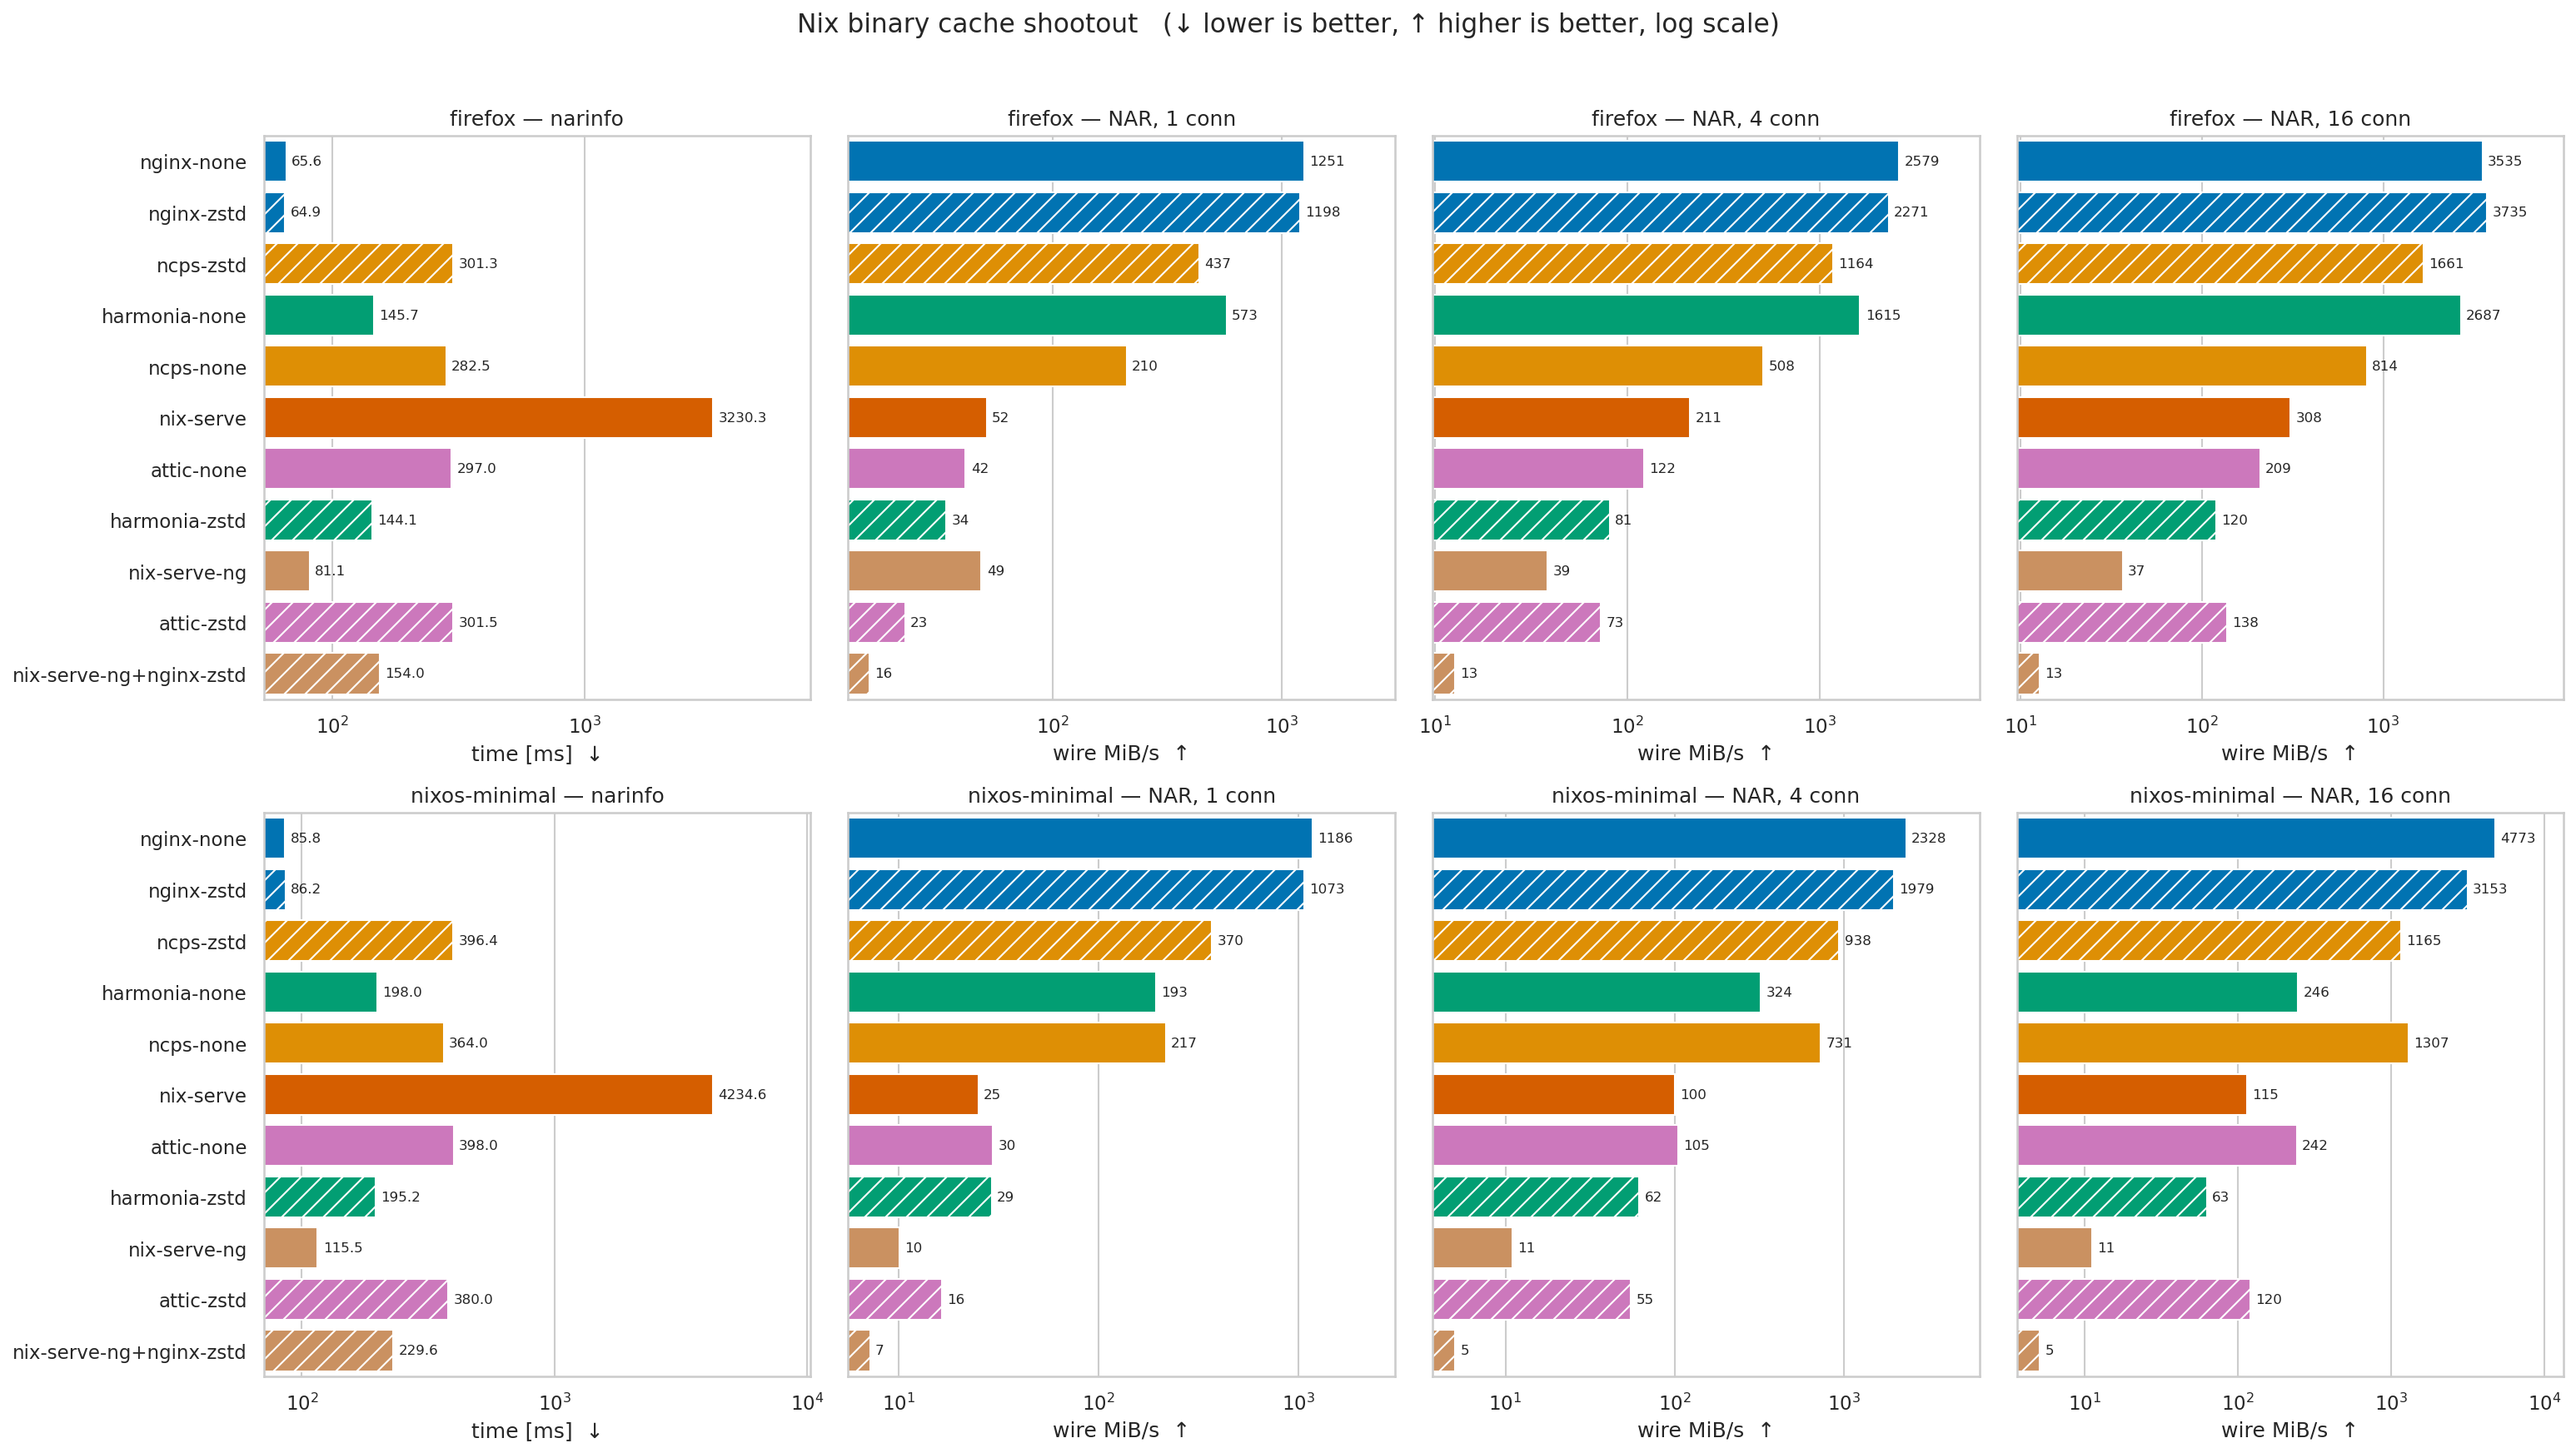
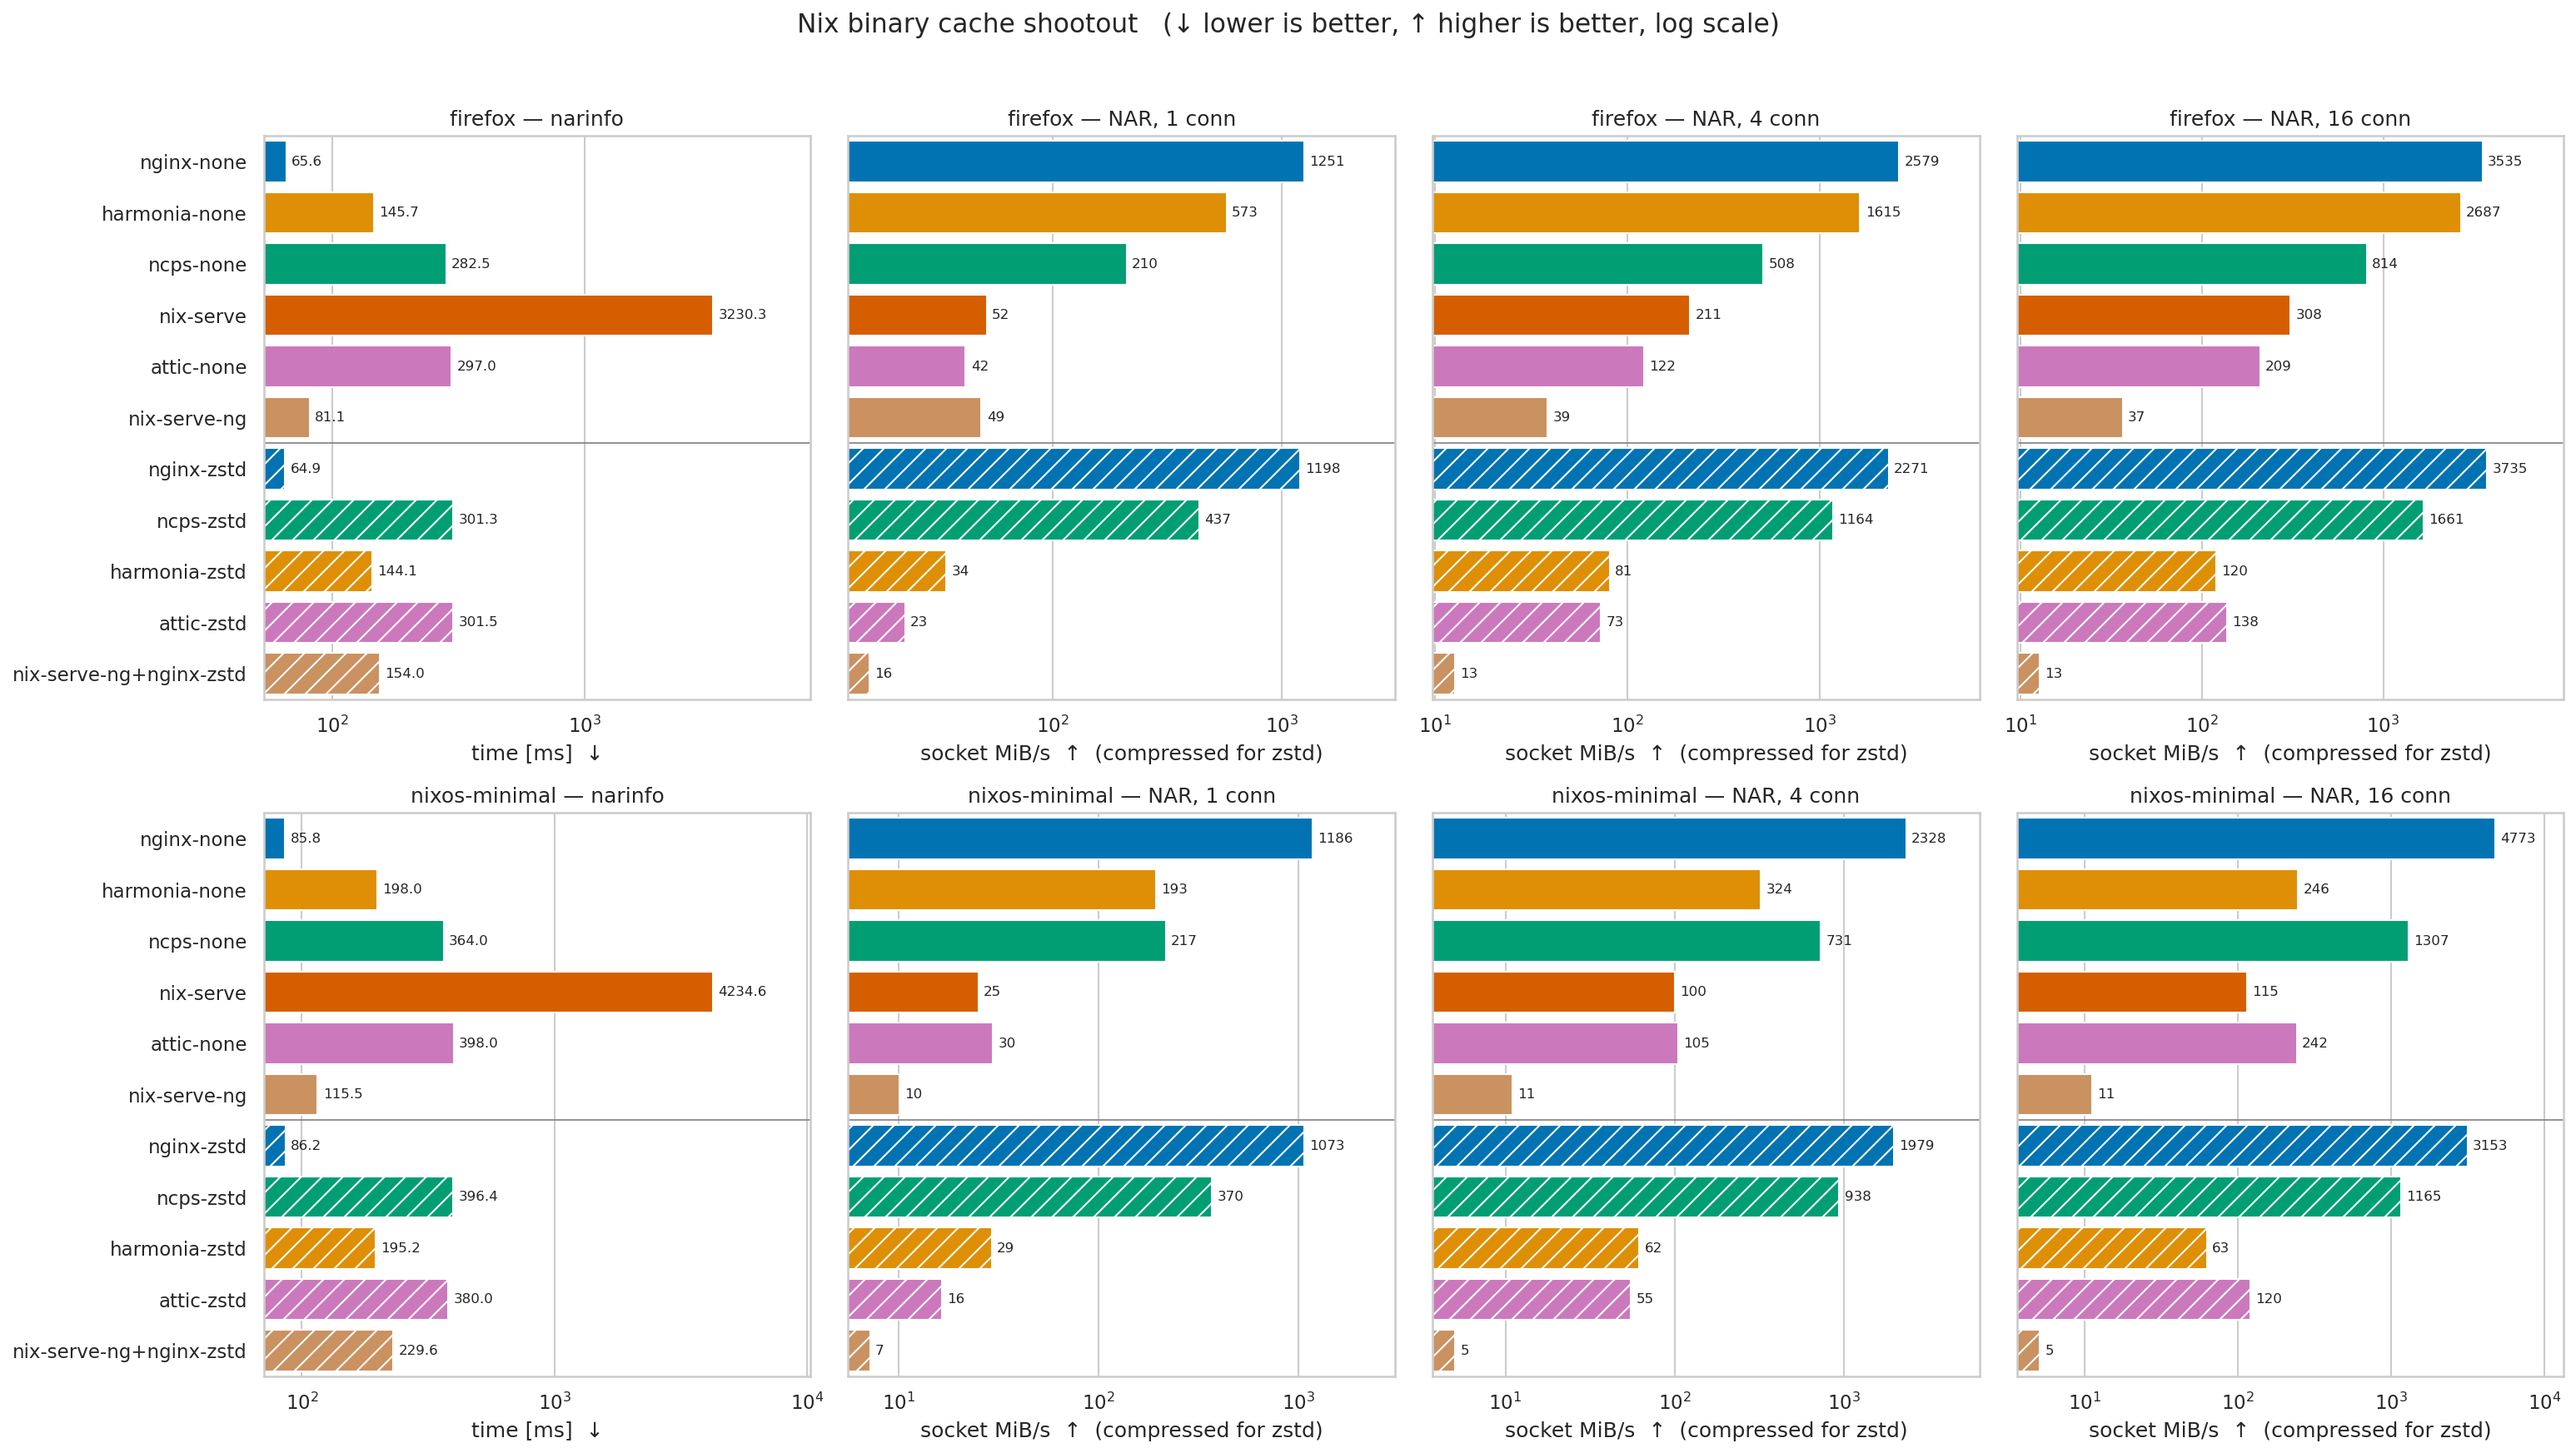
plot: split uncompressed/zstd blocks and clarify wire-throughput unit
Interleaving none/zstd bars by raw throughput rank invited apples-to-
oranges reading: zstd "wire MiB/s" counts compressed bytes, so a slower
bar can still mean a faster end-to-end download. Group by compression
first with a divider, sort within each block, and spell the unit out on
the axis and in results/README.

diff --git a/scripts/plot.py b/scripts/plot.py
@@ -76,14 +76,19 @@ def split_server(name: str) -> tuple[str, str]:
 def order_servers(df: pd.DataFrame) -> list[str]:
     """One ordering shared by every subplot.
 
-    Sort by mean sequential-NAR throughput (high → low) so the eye reads
-    "fastest at the top" consistently across closures and concurrency levels.
+    Group by compression first (uncompressed block, then zstd block) and sort
+    each block by mean sequential-NAR throughput. Mixing the two confused
+    readers because zstd "wire MiB/s" counts compressed bytes and is not
+    directly comparable to the uncompressed bars.
     """
     seq = df[df["metric"] == "nar_download_c1"]
     base = seq if not seq.empty else df
-    key = "mibps" if base["mibps"].notna().any() else "time_s"
-    asc = key == "time_s"
-    return list(base.groupby("server")[key].mean().sort_values(ascending=asc).index)
+    speed = base.groupby("server")["mibps"].mean()
+    servers = list(speed.index)
+    servers.sort(
+        key=lambda s: (split_server(s)[1] != "none", -float(speed.get(s, 0.0)))
+    )
+    return servers
 
 
 def plot(df: pd.DataFrame, out: Path) -> None:
@@ -124,7 +129,7 @@ def plot(df: pd.DataFrame, out: Path) -> None:
                 fmt = "{:.1f}"
             else:
                 d = d.assign(value=d["mibps"])
-                xlabel = "wire MiB/s  ↑"
+                xlabel = "socket MiB/s  ↑  (compressed for zstd)"
                 fmt = "{:.0f}"
             # Reindex onto the full server list so every panel has exactly one
             # patch per server in a known order; this makes the manual
@@ -152,6 +157,10 @@ def plot(df: pd.DataFrame, out: Path) -> None:
                 patch.set_edgecolor("white")
                 if server in zstd_servers:
                     patch.set_hatch("//")
+            # Visual divider between the uncompressed and zstd blocks.
+            n_none = sum(1 for s in server_order if s not in zstd_servers)
+            if 0 < n_none < len(server_order):
+                ax.axhline(n_none - 0.5, color="0.5", lw=0.8)
             conc = metric.removeprefix("nar_download_c")
             title = "narinfo" if metric == "narinfo_all" else f"NAR, {conc} conn"
             ax.set_title(f"{closure} — {title}")

diff --git a/results/README.md b/results/README.md
@@ -10,9 +10,15 @@ Closures:
 | firefox | 373 | 1541 MiB | ~520 MiB |
 | nixos-minimal | 493 | 1033 MiB | ~420 MiB |
 
-Throughput is **wire bytes / wall time**; for zstd variants that is the
-compressed size, so a higher number means the server pushed more compressed
-bytes per second, not more uncompressed payload.
+**Wire MiB/s** = bytes read off the TCP socket / wall-clock for one full
+closure pass. The client never decompresses, so:
+
+- `*-none` rows: raw NAR throughput (numerator = uncompressed NAR size).
+- `*-zstd` rows: compressed throughput (numerator = zstd bytes on the wire).
+
+The two blocks are therefore not directly comparable bar-to-bar; the chart
+separates them with a divider. To compare end-to-end, look at `time_s` in
+`ryan.csv` instead.
 
 Files:
 
